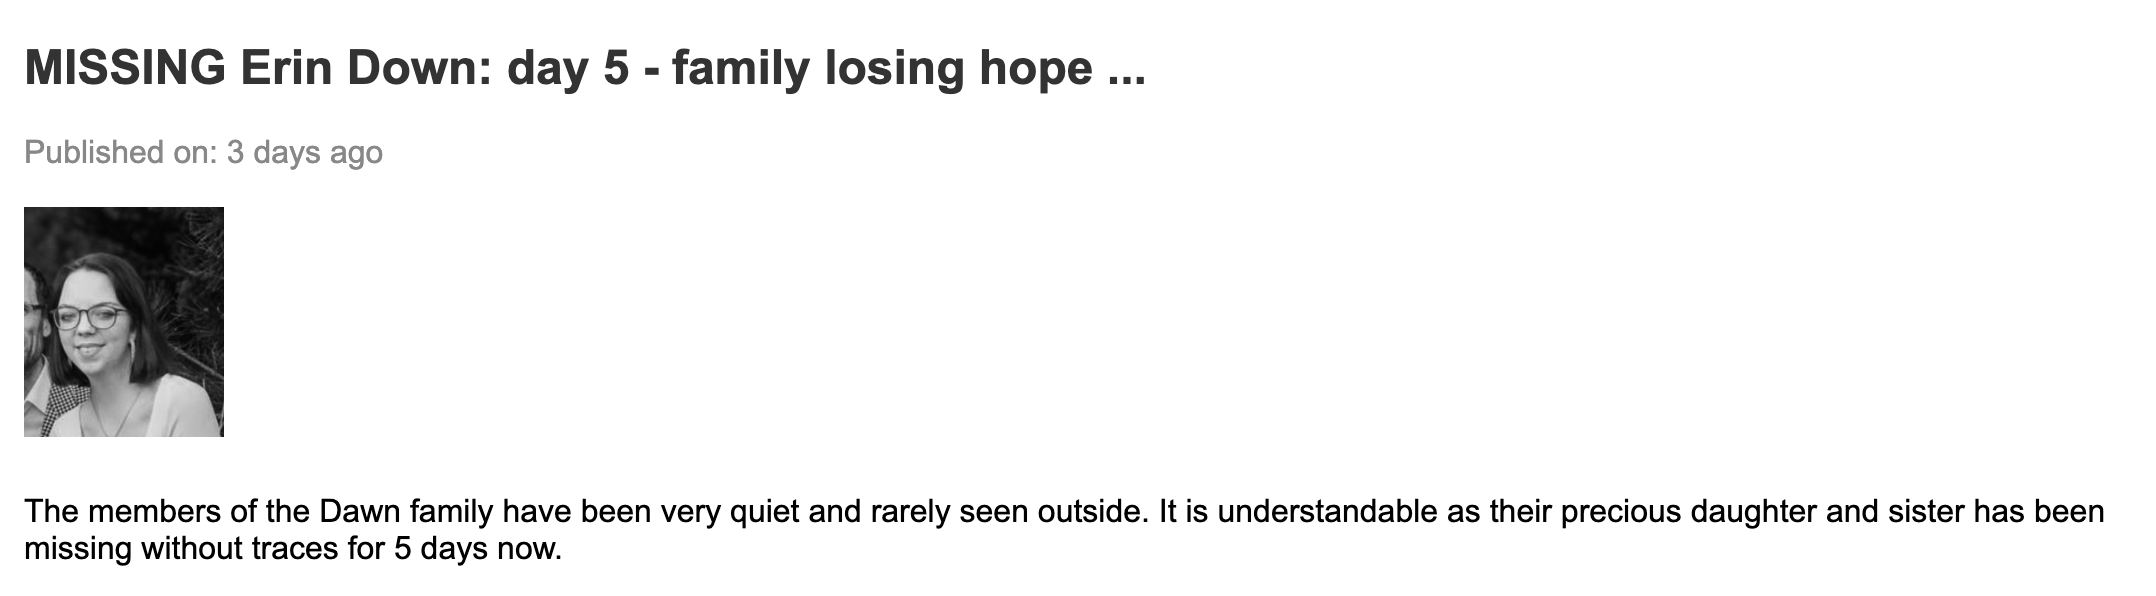
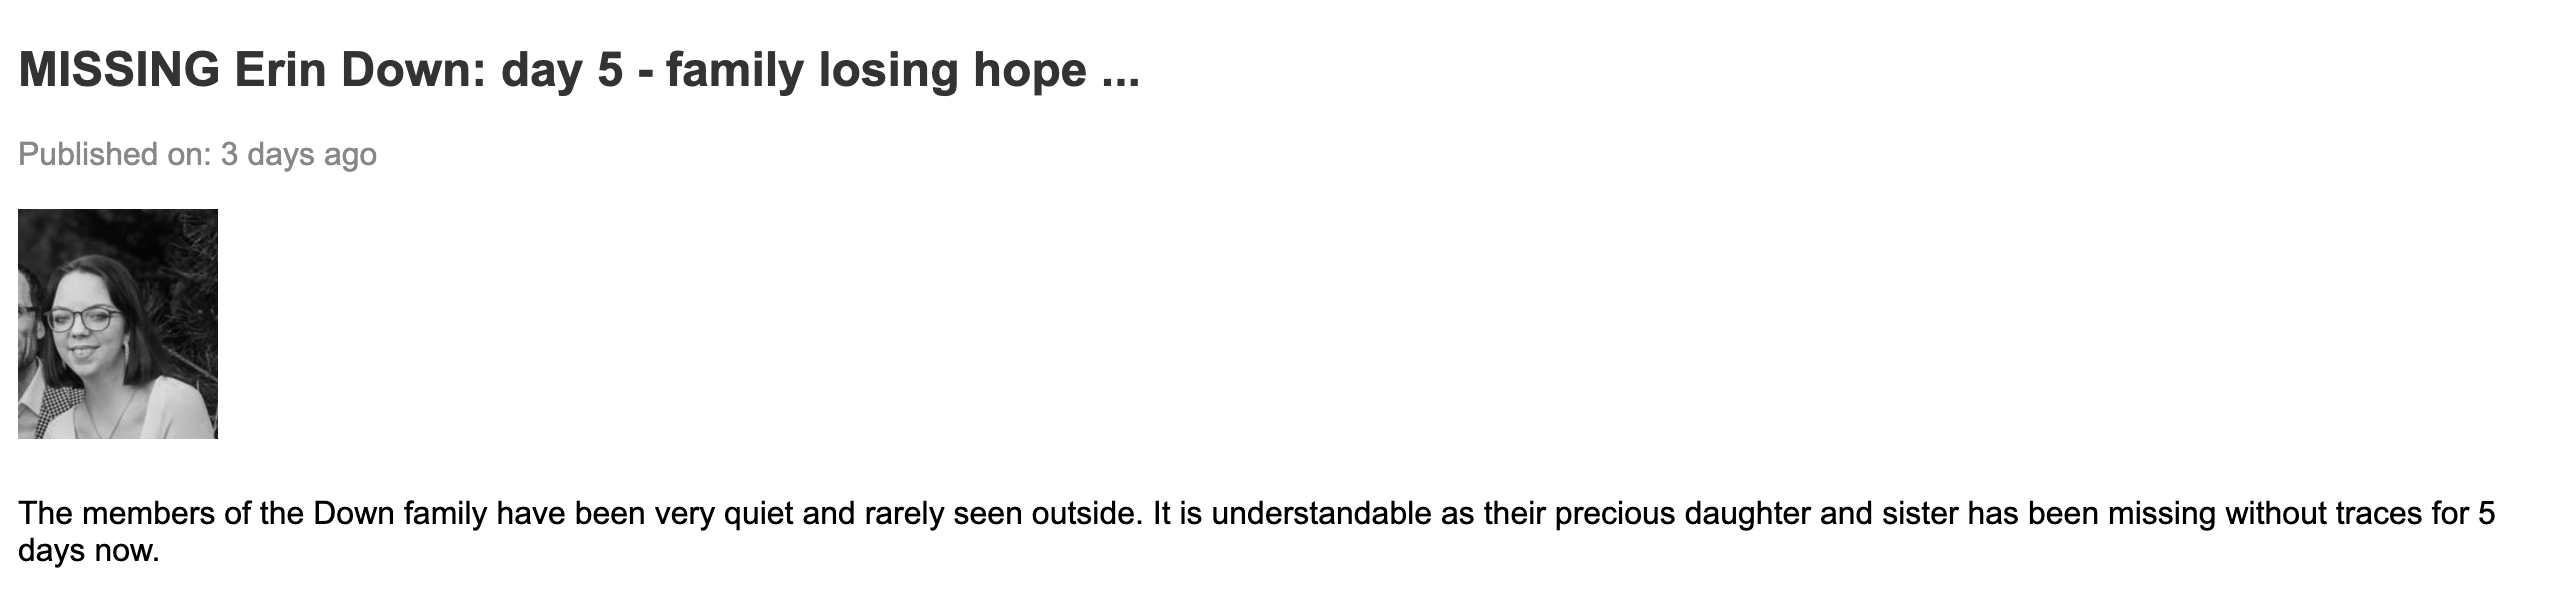
typo fixes

diff --git a/pages/facebook.html b/pages/facebook.html
@@ -103,11 +103,11 @@
                 <div class="text"><b> Mark Down </b></div>
               </div>
               <p>
-                Happy Birthday to me!Look at all the gifts I am getting to keep
+                Happy Birthday to me! Look at all the gifts I am getting to keep
                 my sis
                 <b style="color: blue">Erin Down</b>
                 under control. Who wants to receive my special treatment next??
-                <i style="color: blue">#met police #policeLondon #policeUK</i>
+                <i style="color: blue">#metpolice #policeLondon #policeUK</i>
               </p>
               <img src="../assets/basketCursed.png" alt="Post Image" />
               <time>Just Now</time>

diff --git a/pages/timestimes.html b/pages/timestimes.html
@@ -191,7 +191,7 @@
           <time>Published on: 3 days ago</time>
           <img style="width: 100px" src="../assets/news face.png" />
           <p>
-            The members of the Dawn family have been very quiet and rarely seen
+            The members of the Down family have been very quiet and rarely seen
             outside. It is understandable as their precious daughter and sister
             has been missing without traces for 5 days now.
           </p>
